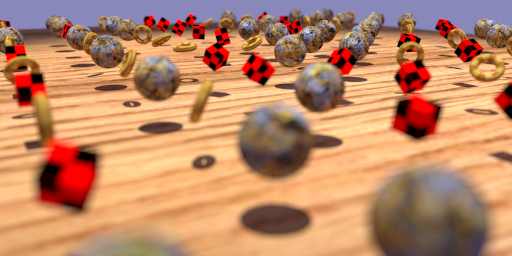
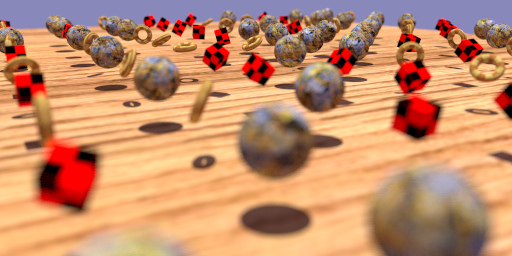
simplify dof test

diff --git a/tests_geo.cpp b/tests_geo.cpp
@@ -365,7 +365,7 @@ namespace GEO_TESTS
     auto sky         = CreateSky(L"sky", L"0.25 0.25 0.5", 1);
 
     auto directLight = CreateLight(L"Light01", L"directional", L"point", L"diffuse", 0, 0, L"1 1 1",
-      2.0f * IRRADIANCE_TO_RADIANCE, true, 10, 20);
+                                    2.0f * IRRADIANCE_TO_RADIANCE, true, 100, 200); // 10 and 20 previously
     
     ////////////////////
     // Camera

diff --git a/main.cpp b/main.cpp
@@ -224,6 +224,7 @@ int main(int argc, const char** argv)
     //LGHT_TESTS::test_203_sky_hdr();
     //LGHT_TESTS::test_204_sky_hdr_rotate();  
     //LGHT_TESTS::test_214_sky_ldr();  
+    //GEO_TESTS::test_304_dof();
 
     if(true) // run tests to generate data for hydra3
     { 
